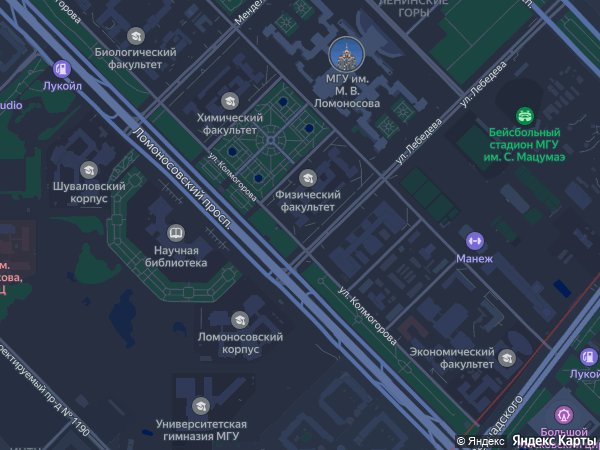
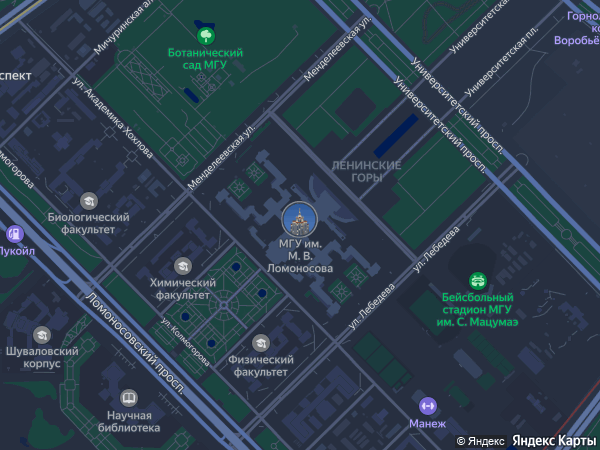
надо

diff --git a/Map.py b/Map.py
@@ -5,9 +5,16 @@ import requests
 from PyQt6 import uic
 from PyQt6.QtCore import Qt
 from PyQt6.QtGui import QPixmap
-from PyQt6.QtWidgets import QApplication, QWidget, QLabel, QMainWindow
+from PyQt6.QtWidgets import QApplication, QMainWindow
 
 class Example(QMainWindow):
+    def on_button_click(self):
+        self.theme = "light"
+        pass
+
+    def on_button_click1(self):
+        self.theme = "dark"
+        pass
     def __init__(self):
         super().__init__()
         uic.loadUi("untitled.ui", self)
@@ -15,6 +22,8 @@ class Example(QMainWindow):
         self.theme = "dark"
         self.delta = 0.001
         self.ll = [37.530887, 55.703118]
+        self.light.clicked.connect(self.on_button_click)
+        self.night.clicked.connect(self.on_button_click1)
         self.getImage()
 
     def getImage(self):
@@ -25,7 +34,7 @@ class Example(QMainWindow):
             "theme": self.theme
 
         }
-        response = requests.get('https://static-maps.yandex.ru/v1?',params=map_params)
+        response = requests.get('https://static-maps.yandex.ru/v1?', params=map_params)
         if not response:
             print("Ошибка выполнения запроса:")
             print("Http статус:", response.status_code, "(", response.reason, ")")
